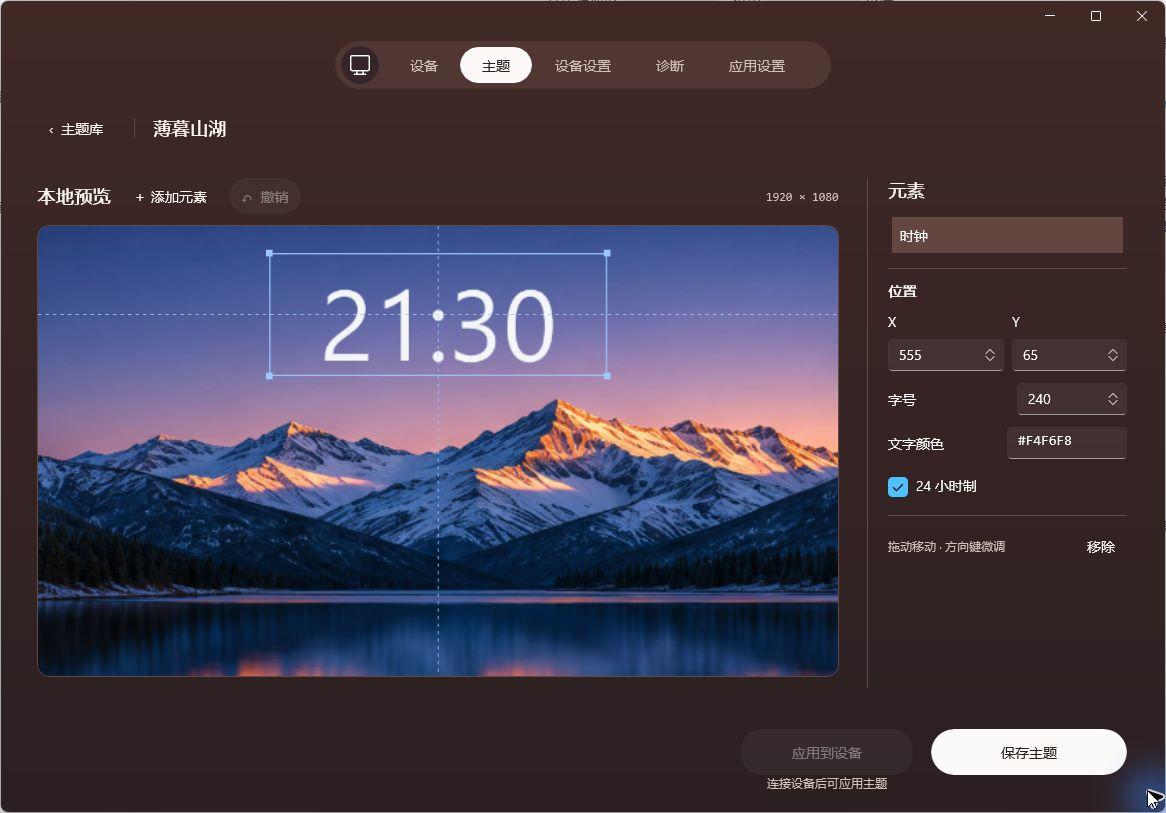
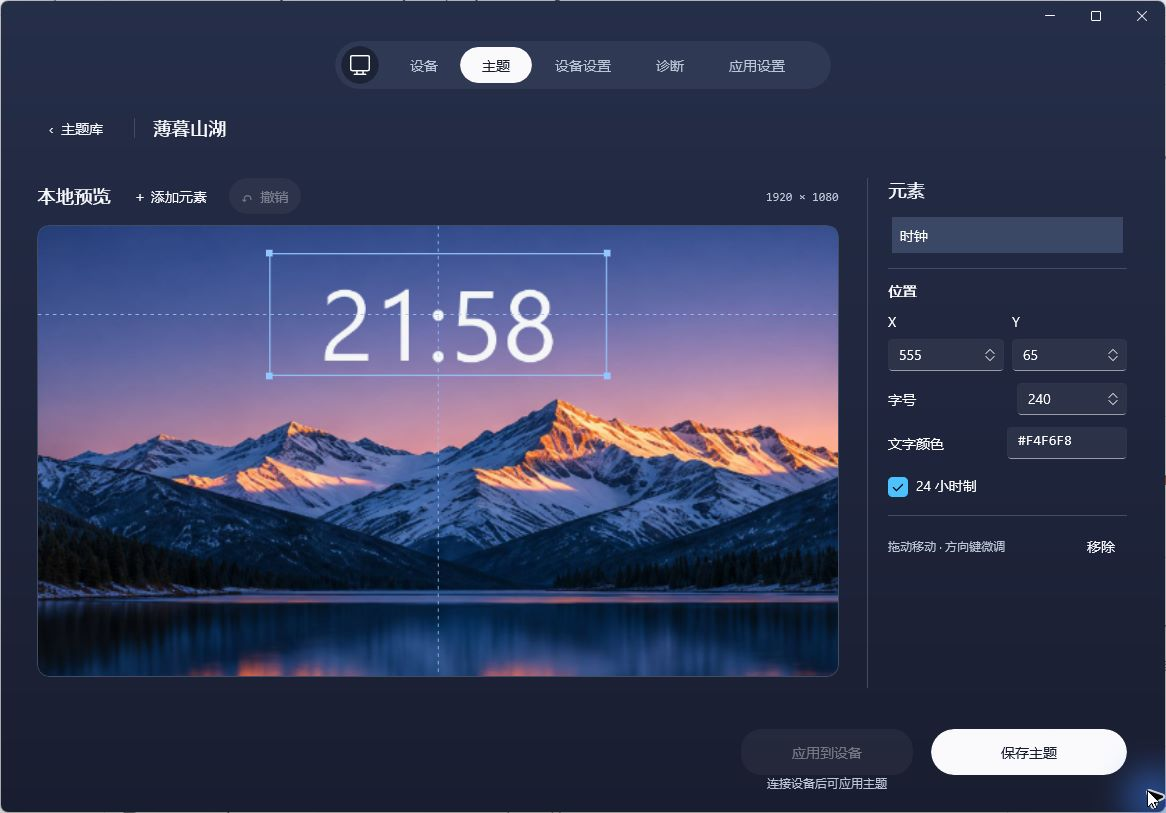
docs: 更新 Beta 6 下载入口和深蓝截图

diff --git a/README.md b/README.md
@@ -2,6 +2,6 @@
 
 Windows USB 显示屏上位机。编辑和预览主题、显示实时监测数据，并管理设备设置。
 
-[正式版下载](https://github.com/iamshen/USBDisplayHost/releases/latest) · [WinUI 3 Beta 安装](docs/release/offline-installation.md#winui-beta) · [反馈问题](https://github.com/iamshen/USBDisplayHost/issues)
+[正式版下载](https://github.com/iamshen/USBDisplayHost/releases/latest) · [Beta 6 下载](https://github.com/iamshen/USBDisplayHost/releases/tag/0.2.0-beta.6) · [反馈问题](https://github.com/iamshen/USBDisplayHost/issues)
 
-![WinUI 3 Beta 的薄暮山湖主题编辑器](docs/images/winui-beta-theme-editor.jpg)
+![WinUI 3 Beta 深蓝外观的薄暮山湖主题编辑器](docs/images/winui-beta-theme-editor.jpg)
